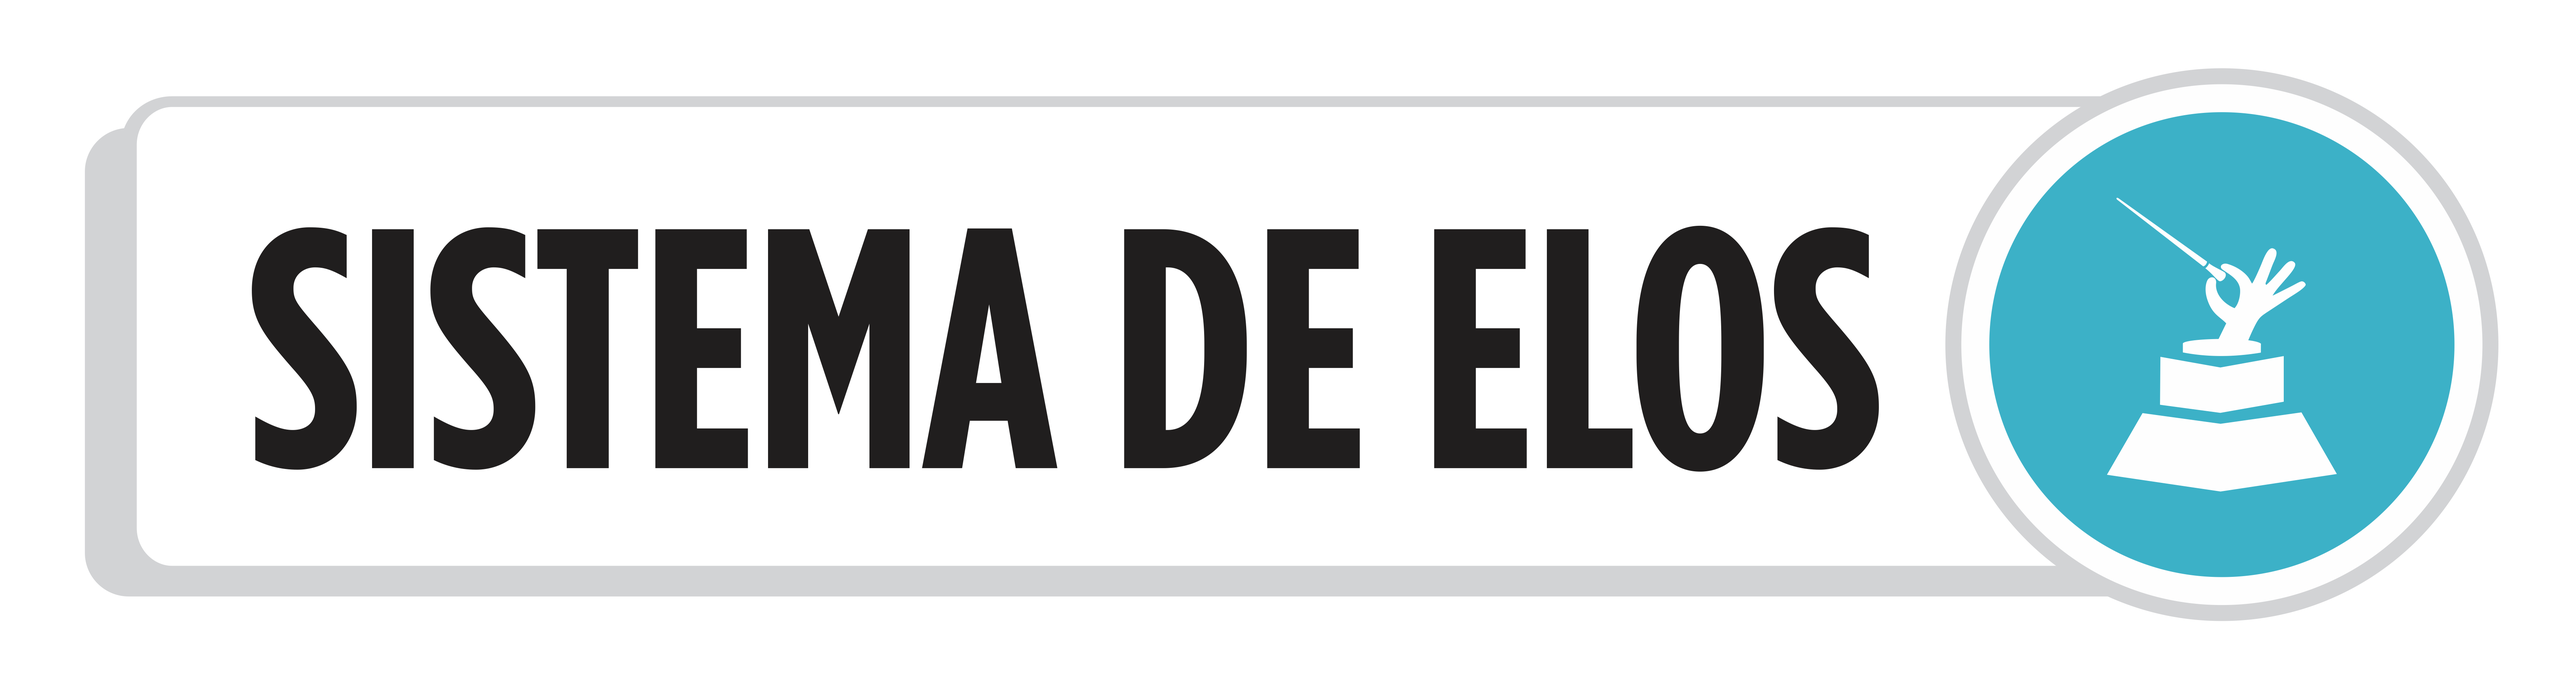
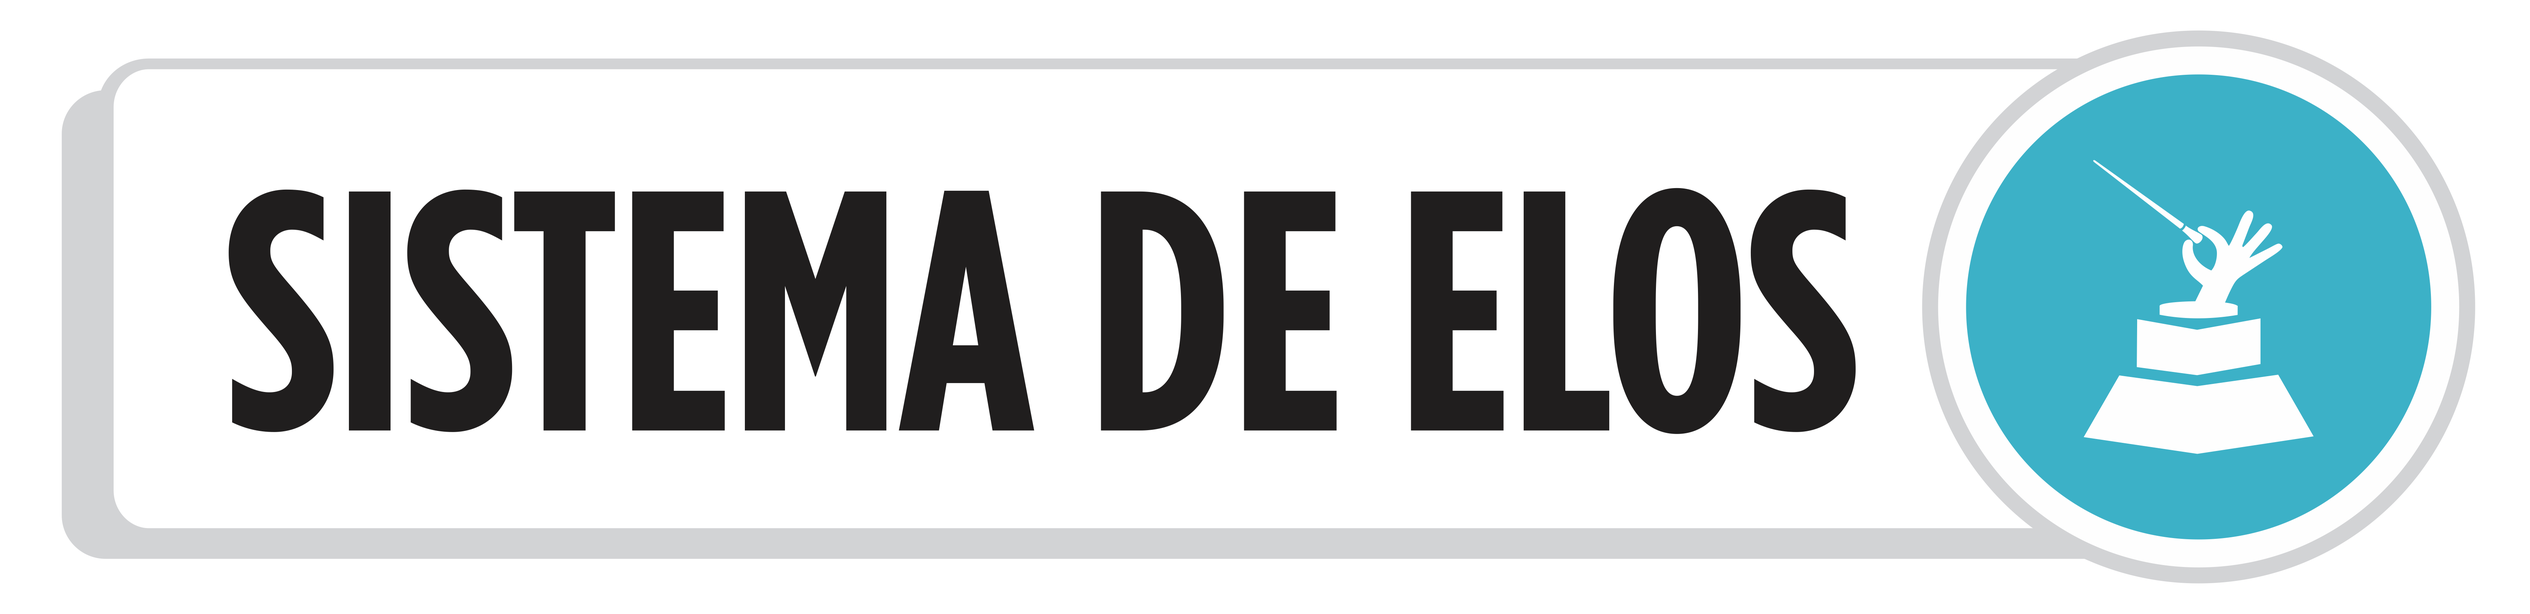
elos repaginada

diff --git a/src/screens/Elos/Elos.js b/src/screens/Elos/Elos.js
@@ -8,6 +8,7 @@ import ferro from '../../assets/imgs/Elos/ferro.png';
 import bronze from '../../assets/imgs/Elos/bronze.png';
 import foto02 from '../../assets/imgs/Elos/02.png';
 import foto03 from '../../assets/imgs/Elos/03.png';
+import titulo from '../../assets/imgs/Elos/sistemaElos.png';
 
 //import estilos
 import {
@@ -21,19 +22,26 @@ export default function Elos() {
     const Elo = () => {
         if (elo == 'ferro') {
             return (
-                <FastImage source={ferro} style={{ height: '40%', width: '100%' }}></FastImage>
+                <SafeAreaView style={{ height: '20%', width: '100%' }}>
+                    <FastImage source={ferro} style={{ height: '100%', width: '100%' }}></FastImage>
+                </SafeAreaView>
             )
         }
 
         if (elo == 'bronze') {
             return (
-                <FastImage source={bronze} style={{ height: '40%', width: '100%' }}></FastImage>
+                <SafeAreaView style={{ height: '20%', width: '100%' }}>
+                    <FastImage source={bronze} style={{ height: '100%', width: '100%' }}></FastImage>
+                </SafeAreaView>
             )
         }
     }
 
     return (
         <SafeAreaView style={styles.container}>
+            <SafeAreaView style={{ height: '14%', width: '75%'}}>
+                <FastImage source={titulo} style={{ height: '100%', width: '100%' }}></FastImage>
+            </SafeAreaView>
             {Elo()}
             <SafeAreaView style={{
                 marginTop: '3%',

diff --git a/src/screens/Conteudo/Licao01/Intro.js b/src/screens/Conteudo/Licao01/Intro.js
@@ -98,10 +98,10 @@ export default function App({ navigation }) {
     const renderSounds = (music) => {
         return (
             <TouchableWithoutFeedback
-                onPress={() => ButtonRef.current.bounceIn(selected(music))}
+                onPress={() =>selected(music)}
             >
                 <Animatable.View
-                    animation={'bounceIn'}
+                    animation={''}
                     useNativeDriver
                     ref={ButtonRef}>
                     <ImageSound source={som}>
